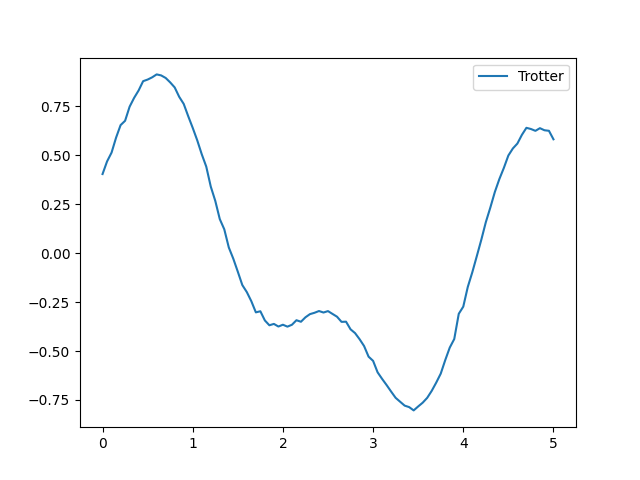
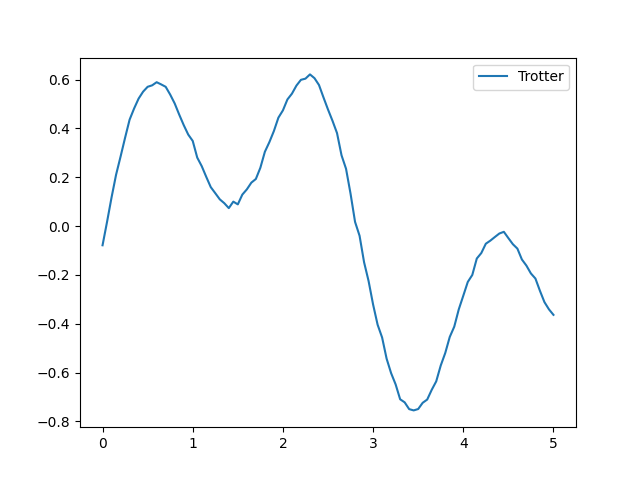
Jon Trotter

diff --git a/Forjontoteststuff.py b/Forjontoteststuff.py
@@ -22,7 +22,7 @@ endtime = 5
 num_steps = 1001
 optimizer ='eigh' #'eigh','qcqp'
 inv_cond = 10**(-3)
-numberoflayers = 2
+numberoflayers = 3
 
 trotter_num_steps = 101
 trotter_timestep = endtime/(trotter_num_steps-1)
